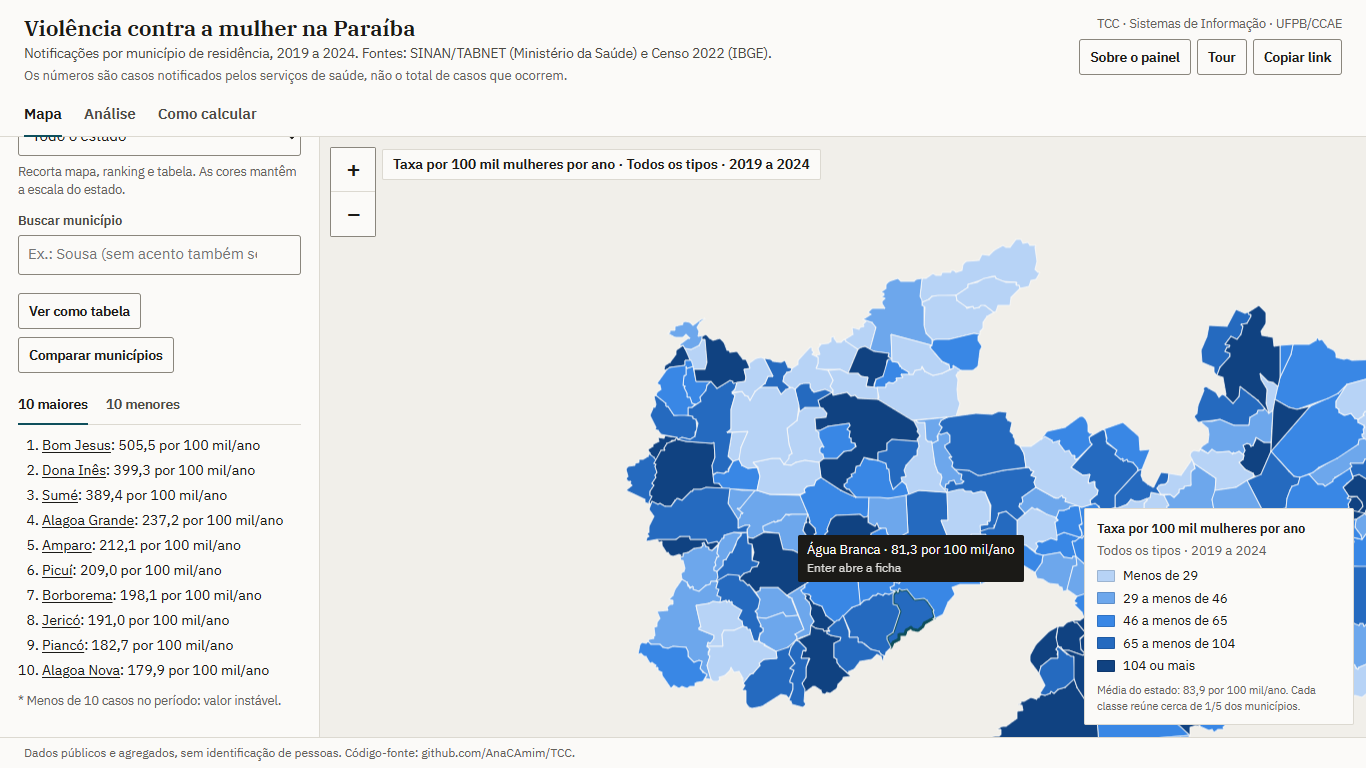
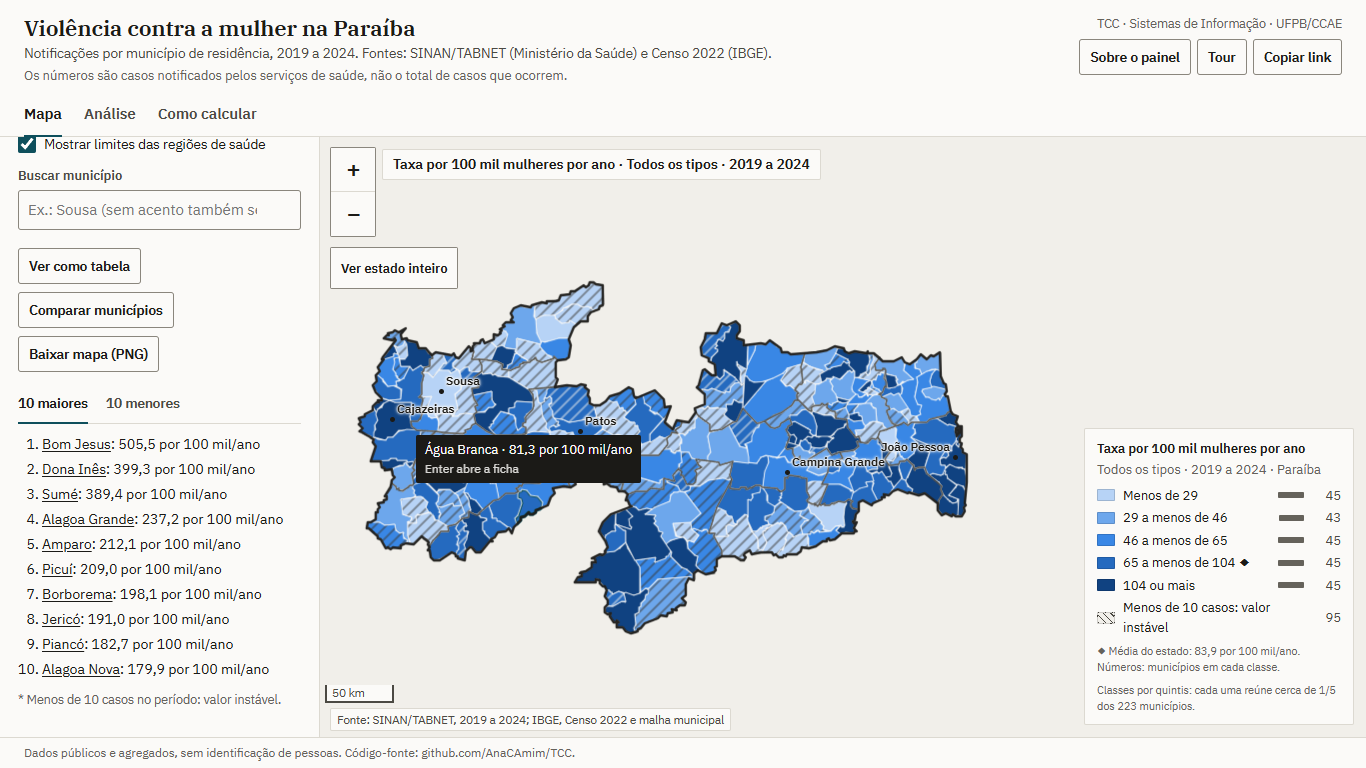
Documentação: melhorias cartográficas com o princípio de cada uma, README e capturas

diff --git a/docs/websig_usabilidade.md b/docs/websig_usabilidade.md
@@ -143,3 +143,27 @@ Objetivo: tirar a aparência de interface genérica e dar ao painel o visual de 
 - Contraste mínimo (testar_usabilidade.py): claro 5,29:1 (antes 4,77:1); escuro 6,36:1 (antes 5,9:1). Foco na cor institucional: 8,8:1 (claro) e 9,2:1 (escuro). Paleta do mapa sem mudança (ΔE mínimo 10,0).
 - Lighthouse (página inicial, servidor com compressão): celular Desempenho 99 e Acessibilidade 100; computador 100 e 100 (`docs/lighthouse/`). Sem pré-carregamento das fontes, o celular caía para 96. O pré-carregamento só é feito quando o painel é servido por http, porque no duplo clique (`file://`) o navegador o bloqueia e acusa erro de CORS.
 - Testes: dados 66, painel 120 (Firefox e WebKit 119), usabilidade 30, nos dois modos de abertura. Novo teste: nenhum travessão nos textos das telas, do Sobre e do Tour.
+
+## Melhorias cartográficas no mapa (ramo `bases-contexto`, 20/11/2026)
+
+Dados, SQL, fórmulas e indicadores não mudaram. O exportador passou a gravar no `dados.json` o contorno do estado e das 16 regiões de saúde, calculados no PostGIS pela união das geometrias municipais (`ST_Union`, simplificados a cerca de 250 m). São só desenho e não entram em nenhuma conta. O front anterior está em `backup/etapa7/`, fora do repositório.
+
+| # | Elemento | Antes | Depois | Princípio cartográfico |
+|---|---|---|---|---|
+| C1 | Casos notificados | Municípios coloridos por classe de casos (mapa coroplético de contagem) | Círculo no centroide de cada município, com **área** proporcional aos casos (raio pela raiz quadrada; o maior, João Pessoa, com 26 px), sobre base cinza com limites. Os maiores são desenhados atrás. Taxa e observado ÷ esperado continuam em cores | Contagens absolutas pedem símbolos proporcionais: no coroplético, município grande "pesa" pela área do território, não pelo número de casos. Raio pela raiz quadrada porque o olho compara áreas |
+| C2 | Valor instável | Só um * no ranking e nas tabelas; no mapa, nada | Hachura leve (linhas diagonais de 1 px a cada 8 px) sobre a cor dos municípios com menos de 10 casos no tipo e período, com item próprio na legenda e contagem (95 no total de 2019 a 2024) | Sinalizar incerteza no próprio mapa, sem esconder o dado: a cor continua legível e a textura avisa que o valor oscila. A linha (escura ou clara) é a de maior contraste com a cor: mínimo de 3,22:1 nos dois temas |
+| C3 | Contorno do estado | Igual aos limites municipais | Linha grossa (2,4 px) na cor do texto | Hierarquia de linhas: o limite mais importante é o mais grosso |
+| C4 | Regiões de saúde | Sem limite visível | Linha intermediária (1,3 px, cinza) entre o estado e os municípios, com opção "Mostrar limites das regiões de saúde" | Hierarquia visual e unidade de gestão do SUS, que é a escala do planejamento regional |
+| C5 | Cidades de referência | Nenhum rótulo | Rótulos de João Pessoa, Campina Grande, Patos, Sousa, Cajazeiras, Guarabira e Monteiro, em ordem de prioridade, sem sobrepor outro rótulo, a ficha, a legenda ou o título; o texto vai à esquerda do ponto quando à direita não cabe; os dois últimos somem com menos zoom. As sedes das 16 regiões não estão nos dados oficiais do DATASUS (os nomes são só "2ª Região" etc.), por isso entram só esses 7 polos | Pontos de referência para a pessoa se localizar; colocação de rótulos sem conflito |
+| C6 | Escala e fonte | Ausentes | Barra de escala em km e "Fonte: SINAN/TABNET, 2019 a 2024; IBGE, Censo 2022 e malha municipal" no canto inferior esquerdo | Elementos obrigatórios de um mapa temático |
+| C7 | Enquadramento com a ficha | Zoom no município escolhido; parte do estado ficava atrás da ficha | O recorte inteiro (estado ou região) é enquadrado na área livre: à esquerda da ficha no computador e acima dela no celular. Sem a ficha, a legenda também é descontada | Nenhum dado escondido por elemento da interface |
+| C8 | Navegação | Arraste e zoom livres | Arraste limitado à Paraíba com margem (o limite é recalculado após cada enquadramento, para não puxar o mapa de volta), zoom mínimo e máximo e botão "Ver estado inteiro" | Evitar que a pessoa se perca num mapa vazio |
+| C9 | Legenda | Classes com rótulo; média do estado só em texto | Título com unidade ("Taxa por 100 mil mulheres por ano"; "Casos notificados (número de notificações)"; "Observado ÷ esperado (1 = igual ao estado)"), recorte atual (tipo · período · Paraíba ou região), número de municípios em cada classe com mini-histograma, ◆ na classe da média do estado, item da hachura e uma linha explicando as classes (quintis na taxa; classes fixas em torno de 1 no observado ÷ esperado; área proporcional nos casos, com 3 círculos de referência: 10, 100 e 1.000) | A legenda diz o que se mede, em que unidade, como as classes foram feitas e quanto pesa cada uma |
+| C10 | Filtro de região | Municípios de fora esmaecidos | Além disso, o limite da região escolhida é destacado (3,2 px, cor institucional) | Figura e fundo: a região em foco se destaca sem esconder o contexto |
+| C11 | Baixar mapa (PNG) | Não havia | O mapa atual é redesenhado num canvas com título (indicador, tipo, período, recorte), legenda, barra de escala, rótulos e fonte, e baixado como PNG (em 2×). Funciona nos dois modos de abertura; se falhar, uma mensagem orienta a abrir pelo link publicado | Mapa pronto para relatório, com os elementos que o tornam legível fora do painel |
+| C12 | Celular com a ficha aberta | Legenda, escala e fonte ficavam por cima da ficha | Enquanto a ficha está aberta, o celular esconde legenda, escala, fonte e "Ver estado inteiro"; a dica da região de saúde (que repete o rótulo) também sai, para o mapa continuar na primeira tela | No espaço pequeno, mostrar o dado e esconder o acessório |
+
+Conferência:
+- Testes novos: área dos círculos de João Pessoa, Campina Grande e Sousa proporcional aos casos (r² ÷ casos constante; maiores atrás); hachura exatamente nos 95 municípios com menos de 10 casos (igual à view) e contagem por classe somando 223; enquadramento com a ficha aberta no computador e no celular; PNG gerado nos dois modos de abertura; rótulos sem sobreposição; regiões ligam e desligam; limite da região escolhida destacado; contraste da hachura ≥ 3:1 nos dois temas.
+- Testes: dados 67, painel 138 (Firefox e WebKit 137), usabilidade 32, 0 falhas.
+- Lighthouse local (com compressão): celular 97 e 98 de desempenho (antes 99) e 100 de acessibilidade; computador 100 e 100. A primeira versão ficou em 95: o mapa era desenhado e logo reenquadrado na abertura. Calcular a vista antes de pôr as camadas e adiar contornos e rótulos para depois do primeiro desenho recuperou quase toda a diferença.

diff --git a/README.md b/README.md
@@ -66,7 +66,7 @@ Views: `vw_indicador_municipio_ano_tipo` (município × período × tipo), `vw_i
 ## O que o painel oferece
 
 - Filtros de indicador, tipo de violência, período (cada ano ou 2019–2024) e **região de saúde** (16 regiões; recorta o mapa, o ranking e a tabela e aproxima o mapa da região).
-- Título do mapa com os filtros ativos; legenda com a média do estado (e da região, quando escolhida).
+- Mapa temático: taxa e observado ÷ esperado em cores, com hachura onde há menos de 10 casos; casos em círculos proporcionais. Contorno do estado, limites das regiões de saúde (liga/desliga), rótulos das cidades-polo, barra de escala e fonte. Legenda com unidade, recorte, municípios por classe e a média do estado. Botões **Ver estado inteiro** e **Baixar mapa (PNG)**, com título, legenda e fonte, para relatório.
 - Ranking dos 10 maiores e dos 10 menores (nos menores entram só municípios com pelo menos 10 casos).
 - **Ficha do município:** frase-resumo calculada no topo (o que olhar primeiro), os 5 indicadores comparados com o estado e com a região de saúde, série anual, tipos, faixa etária ("Faixa mais atingida" e botões **Casos | Taxa por 100 mil/ano**, com a taxa do estado como referência), aviso de poucos casos, link "como calcular" e **Imprimir ficha**.
 - **Onde as mulheres foram atendidas** (contexto, na ficha e na Análise): barra única de 100% com mesma região de saúde, outra região da Paraíba e fora da Paraíba, com número e %. % = casos atendidos na categoria ÷ casos do município × 100. Não é indicador e não diz o motivo.
